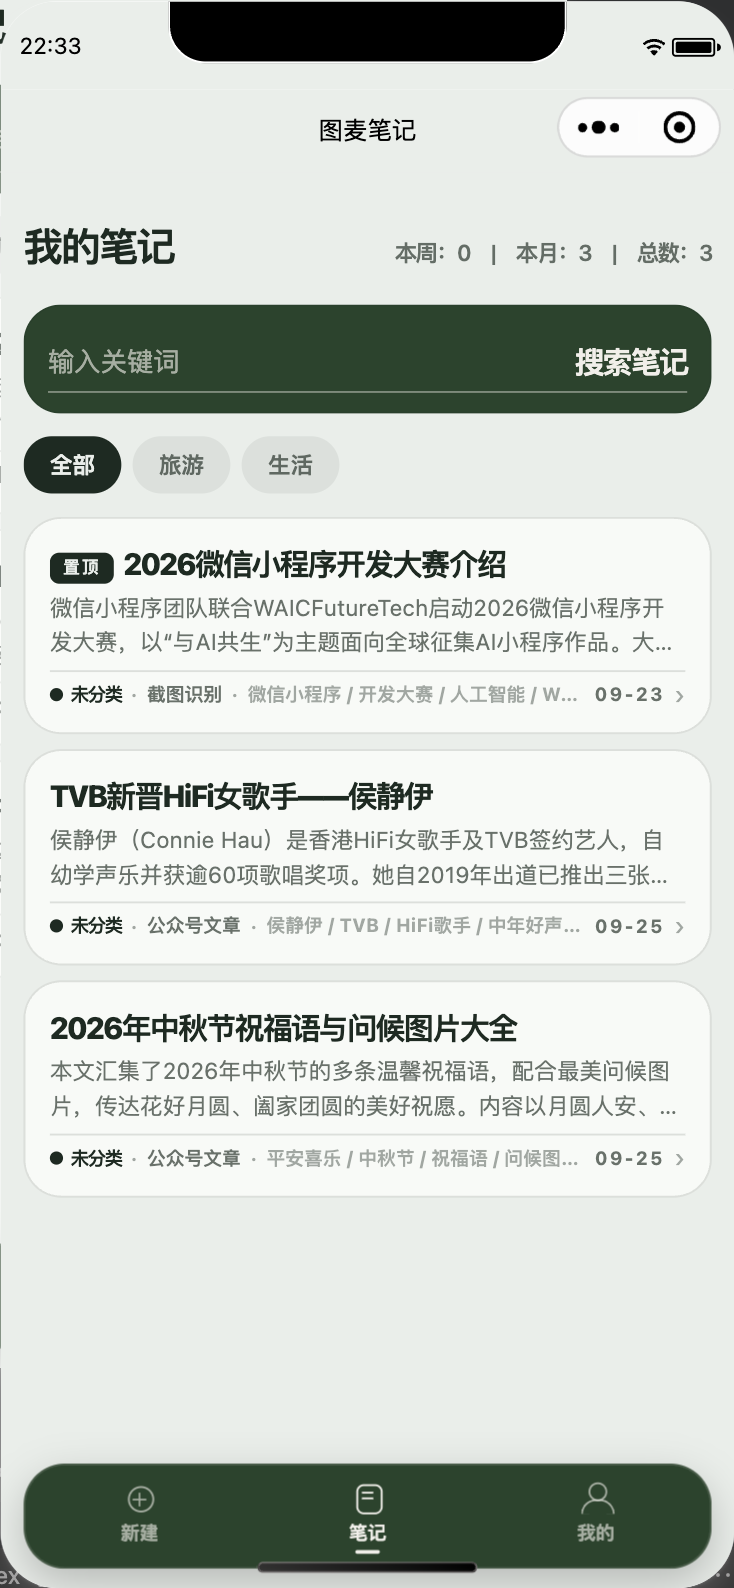
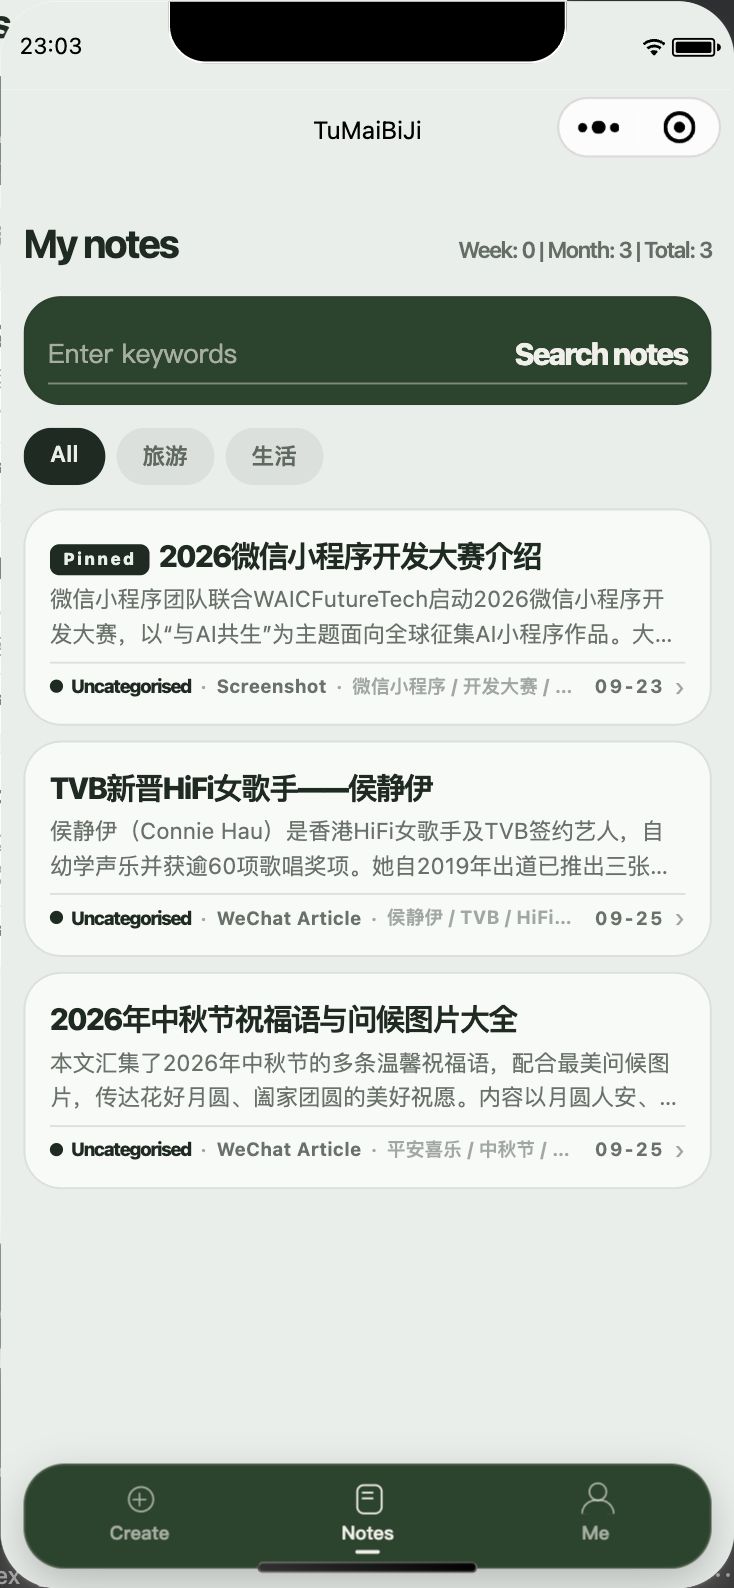
两层框撤掉：那张纸整个不要了，图改成贯穿全屏（一条笔记一个框）
真机反馈：纸自己一圈描边、每条笔记又一圈描边，读起来是框套框。
.list-layer 现在只剩层序作用（fixed 的图有 z-index，静态内容会被它盖住），
不画面、不倒角、不描边；压暗那一串改成逐字抄新建页，两页明暗是一个连续体。
尺子跟进：静态 35 条（新增这一层不许有第二个框三条）、真跑 24 条全过。

diff --git a/docs/工具/验-列表头部铺图-真跑.js b/docs/工具/验-列表头部铺图-真跑.js
@@ -1,7 +1,7 @@
-// 笔记列表"头部铺图（C 方案）"的真跑自证：在模拟器里真读计算样式、真量几何、真截图。
+// 笔记列表"整页铺图 + 一条笔记一个框"的真跑自证：在模拟器里真读计算样式、真量几何、真截图。
 // 跑法：NODE_PATH=/tmp/mpaauto/node_modules node docs/工具/验-列表头部铺图-真跑.js
 // 前置：微信开发者工具已开；改过 WXSS 要先 cli close 再 cli auto --auto-port 9431。
-// 一把量两个状态：开关开着（头部是照片 + 纸白搜索条 + 暗玻璃 chip + 一张纸）
+// 一把量两个状态：开关开着（整屏是照片 + 纸白搜索条 + 暗玻璃 chip，列表只有行卡那一个框）
 // 和开关关掉（这一屏必须逐条退回 D2 那一版）。只量前一个状态等于没量——
 // "关掉开关还剩一半铺图痕迹"是这类改动最容易漏的那件事。
 const automator = require('miniprogram-automator')
@@ -85,28 +85,43 @@ const INK = hexArr(/--chrome-ink: (#23252c)/i.exec(
   await sleep(4500)
   const cls = (await (await page.$('.container')).attribute('class')) || ''
   ck('铺图时容器带 has-bg', /has-bg/.test(cls), cls)
-  const [bgRect, scrimRect, sheetRect] = await rects(['.page-bg', '.page-scrim', '.sheet'])
-  ck('图带从视口顶起、高 700rpx', bgRect && closeTo(bgRect.top, 0) && closeTo(bgRect.h, 700 * R),
-    bgRect && `顶 ${Math.round(bgRect.top)} 高 ${(bgRect.h / R).toFixed(0)}rpx`)
+  const [bgRect, scrimRect] = await rects(['.page-bg', '.page-scrim'])
+  ck('图从视口顶铺到屏底（100vh，卡片之间露的就是它）',
+    bgRect && closeTo(bgRect.top, 0) && closeTo(bgRect.bottom, win.h, 3),
+    bgRect && `顶 ${Math.round(bgRect.top)} 底 ${Math.round(bgRect.bottom)}｜视口高 ${Math.round(win.h)}`)
   ck('罩层和图带同一块地', scrimRect && closeTo(scrimRect.top, bgRect.top) && closeTo(scrimRect.h, bgRect.h))
-  ck('纸是满宽的（左右负出容器的 24 内缩）',
-    sheetRect && Math.abs(sheetRect.left) < 1 && Math.abs(sheetRect.w - win.w) < 2,
-    sheetRect && `左 ${Math.round(sheetRect.left)} 宽 ${(sheetRect.w / R).toFixed(0)}rpx`)
-  ck('纸顶落在图带之内，图不会在纸下面漏出来',
-    sheetRect && sheetRect.top > 0 && sheetRect.top < 700 * R,
-    `纸顶 ${(sheetRect.top / R).toFixed(0)}rpx / 带底 700rpx`)
-  const num = (s) => Number(String(s).match(/[\d.]+/)?.[0] || NaN)
-  const rTL = num(await styleOf(page, '.sheet', 'border-top-left-radius'))
-  const rBL = num(await styleOf(page, '.sheet', 'border-bottom-left-radius'))
-  ck('纸上沿两个角是 40rpx 圆角、下面直角',
-    Math.abs(rTL - 40 * R) < 1.5 && rBL === 0, `上 ${rTL}px（应≈${(40 * R).toFixed(1)}）下 ${rBL}px`)
-  ck('纸底吃的是壁纸底色（和容器无缝）',
-    near(rgbOf(await styleOf(page, '.sheet', 'background-color')),
-      hexArr(p.themeOf(wall).page)),
-    await styleOf(page, '.sheet', 'background-color'))
+  const num = (x) => Number(String(x).match(/[\d.]+/)?.[0] || NaN)
+  // 这一层必须"什么都不是"：没有面、没有圆角、没有描边——它以前是一张托着列表的纸，
+  // 那圈描边和每条笔记自己的描边叠起来就是他说的"两层框"。
+  ck('列表那一层没有面（透出底下的图）',
+    /rgba\(0, 0, 0, 0\)|transparent/.test(await styleOf(page, '.list-layer', 'background-color')),
+    await styleOf(page, '.list-layer', 'background-color'))
+  // await 不能写在 .every 的回调用里（那不是 async 回调），先读成一串再比
+  const readAll = async (props) => {
+    const out = {}
+    for (const k of props) out[k] = num(await styleOf(page, '.list-layer', k))
+    return out
+  }
+  const radii = await readAll(['border-top-left-radius', 'border-top-right-radius',
+    'border-bottom-left-radius', 'border-bottom-right-radius'])
+  ck('列表那一层四个角都是直角', Object.values(radii).every((v) => v === 0), JSON.stringify(radii))
+  const edges = await readAll(['border-top-width', 'border-bottom-width',
+    'border-left-width', 'border-right-width'])
+  ck('列表那一层没有描边（框只有行卡那一个）', Object.values(edges).every((v) => v === 0), JSON.stringify(edges))
+  // 卡底不是恒白：淡雅那两枚壁纸下 --bg-card 是比纸亮一档的暖白/冷白。
+  // 这个值只写在 app.wxss 的主题类里（themeOf 给的是 page/line，没有 card），所以从那里现读。
+  const themeCls = p.themeOf(wall).cls
+  const APP = fs.readFileSync(P('app.wxss'), 'utf8')
+  const cardHex = (/--bg-card:\s*(#[0-9A-Fa-f]{6}|rgba?\([^)]*\))/
+    .exec(new RegExp(`\\.${themeCls}\\s*\\{([\\s\\S]*?)\\}`).exec(APP)[1]) || [])[1]
+  const rowBg = await styleOf(page, '.note-row', 'background-color')
+  ck('行卡自己有且只有一个框（框只有这一层，卡底对得上主题那一档）',
+    (near(rgbOf(rowBg), hexArr(cardHex)) || rgbOf(rowBg).join() === rgbOf(cardHex).join())
+    && num(await styleOf(page, '.note-row', 'border-top-width')) > 0,
+    `底 ${rowBg}（app.wxss=${cardHex}）｜描边 ${await styleOf(page, '.note-row', 'border-top-width')}`)
   const rowRect = (await rects(['.note-row']))[0]
-  if (rowRect) ck('第一张行卡在纸内（不是浮在图上）', rowRect.top >= sheetRect.top,
-    `卡顶 ${(rowRect.top / R).toFixed(0)}rpx / 纸顶 ${(sheetRect.top / R).toFixed(0)}rpx`)
+  if (rowRect) ck('第一张行卡落在图的范围里（卡片之间露图）',
+    rowRect.top > 0 && rowRect.top < win.h, `卡顶 ${(rowRect.top / R).toFixed(0)}rpx`)
   ck('搜索条翻成纸白那一面',
     near(rgbOf(await styleOf(page, '.sc-card', 'background-color')), hexArr(PAPER)),
     await styleOf(page, '.sc-card', 'background-color'))
@@ -149,11 +164,9 @@ const INK = hexArr(/--chrome-ink: (#23252c)/i.exec(
   ck('关掉后搜索条回到壁纸派生那一支色（和底栏同一个函数）',
     near(rgbOf(await styleOf(page, '.sc-card', 'background-color')), hexArr(chrome.bg)),
     `${await styleOf(page, '.sc-card', 'background-color')}｜chromeOf=${chrome.bg}`)
-  ck('关掉后那张纸是透明的（不留一块色板在列表底下）',
-    /rgba\(0, 0, 0, 0\)|transparent/.test(await styleOf(page, '.sheet', 'background-color')),
-    await styleOf(page, '.sheet', 'background-color'))
-  ck('关掉后纸没有圆角', num(await styleOf(page, '.sheet', 'border-top-left-radius')) === 0,
-    await styleOf(page, '.sheet', 'border-top-left-radius'))
+  ck('关掉后这一层同样是透明的（两态一致，它本来就没有面）',
+    /rgba\(0, 0, 0, 0\)|transparent/.test(await styleOf(page, '.list-layer', 'background-color')),
+    await styleOf(page, '.list-layer', 'background-color'))
   ck('关掉后 chip 回到壁纸那一档（不再是暗玻璃）',
     !/rgba\(18, 20, 26/.test(await styleOf(page, '.chip', 'background-color')),
     await styleOf(page, '.chip', 'background-color'))
